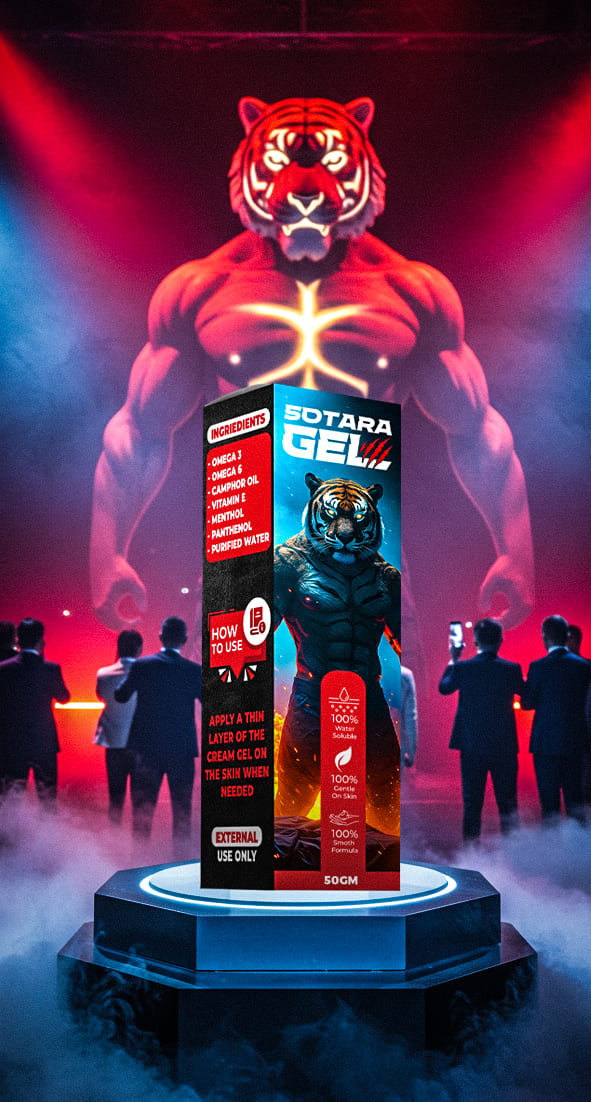
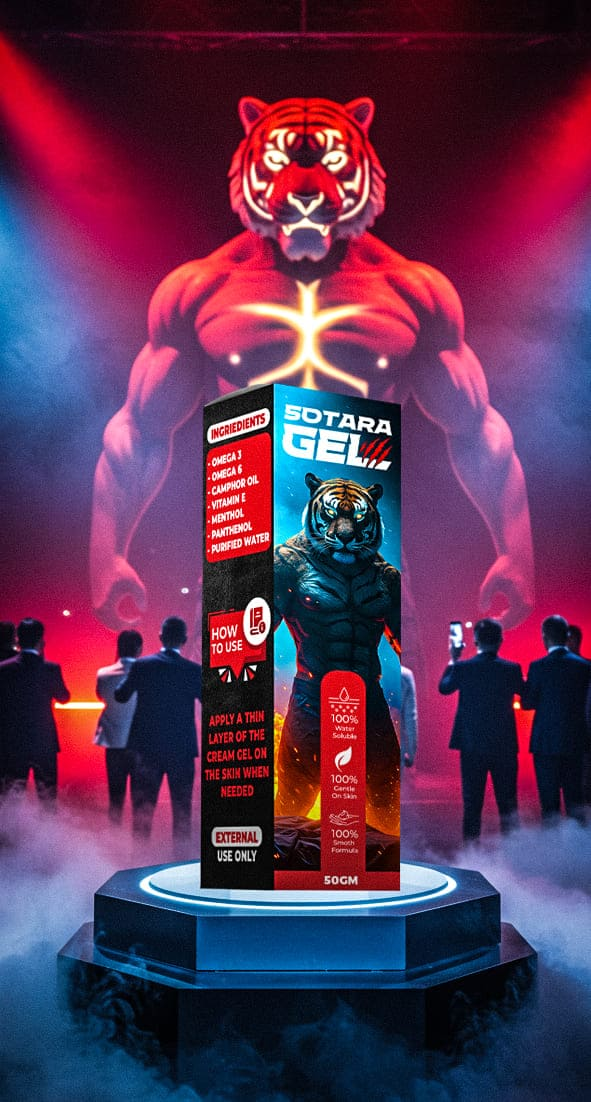
Add files via upload

diff --git a/css/style.css b/css/style.css
@@ -97,6 +97,11 @@ input, button{
   }
 }
 
+@media (min-width:992px){
+  .btn_img{
+    width: 240px;
+  }
+}
 
 
 
@@ -146,7 +151,7 @@ input, button{
   .hero ul li.white{
     border-radius: 20px;
     margin: 0 auto 10px;
-    width: 80%;
+    width: 76%;
     font-size: 4vw;
   }
   .hero ul li.last{
@@ -170,10 +175,14 @@ input, button{
 .hero{
   width: 50%;
 }
+
+.hero .top_img{
+  margin-top: -4vw;
+}
   .hero ul li.orange ,
   .hero ul li.white{
-  font-size: 24px;
-      width: 90%;
+  font-size: 22px;
+      width: 82%;
 }
 .hero ul li.last{
   font-size: 23px;
@@ -214,12 +223,18 @@ input, button{
 /* ==========  Responsive Design  ========== */
 /* ==========  sm ≥ 576px  ========== */
 @media (min-width:576px){
-
+.results .img-result{
+  width: 90%;
+  margin: 0 auto 20px;
+}
 }
 
 /* ==========  md ≥ 768px  ========== */
 @media (min-width:768px){
-
+.results .img-result{
+  width: 80%;
+  margin: 0 auto 20px;
+}
 }
 
 /* ==========  lg ≥ 992px  ========== */
@@ -230,7 +245,9 @@ input, button{
   flex-direction: column;
   justify-content: center;
 }
-
+.results .img-result{
+  margin-bottom: 20px;
+  }
 
 }
 
@@ -270,7 +287,7 @@ input, button{
 }
 .doctor ul li{
   width: 48.5%;
-  font-size: 3.8vw;
+  font-size: 3.6vw;
   line-height: 1.5;
   margin-bottom: 10px;
   text-align: center;
@@ -292,7 +309,11 @@ input, button{
 /* ==========  Responsive Design  ========== */
 /* ==========  sm ≥ 576px  ========== */
 @media (min-width:576px){
-
+ .doctor ul li{
+    margin-bottom: 20px;
+    width: 47%;
+    font-size: 3.5vw;
+  }
 
 }
 
@@ -303,12 +324,26 @@ input, button{
   }
   .doctor{
     width: 50%;
-    background: #FF6711;
-
   }
   .doctor .text{
     top: 40vw;
   }
+  .doctor ul li{
+    font-size: 24px;
+    width: 70%;
+  }
+  .doctor ul{
+    flex-direction: column;
+    justify-content: center;
+    align-items: center;
+  }
+    .doctor ul li.red:nth-child(3n){
+       background: linear-gradient(#4EA7F9, #487EFA);
+    }
+     .doctor ul li.blue:nth-child(2n){
+      background: linear-gradient(#E32315, #95130A);
+    }
+
 
 
 }
@@ -363,7 +398,7 @@ input, button{
 }
 
 .how_work ul li{
-  font-size: 4.5vw;
+  font-size: 4vw;
   line-height: 1.4;
   color: #fff;
   margin-bottom: 10px;
@@ -403,12 +438,21 @@ input, button{
   .how_work{
     width: 50%;
   }
-  .img_how_work{
-    height: 100%;
-    width: 100%;
-    object-fit: cover;
-  }
 
+  .how_work .top_how_work h3{
+    font-size: 40px;
+    margin-bottom: 10px;
+  }
+  .how_work .top_how_work h5{
+    font-size: 27px;
+  }
+  .how_work ul li{
+    font-size: 20px;
+    margin-bottom: 15px;
+  }
+.how_work .imp p{
+  font-size: 18px;
+}
 }
 
 /* ==========  xl ≥ 1200px  ========== */
@@ -616,6 +660,9 @@ input, button{
 
 /* ==========  lg ≥ 992px  ========== */
 @media (min-width:992px){
+  .footer{
+        background: linear-gradient(#4EA7F9, #487EFA);
+  }
   .footer .boxs .box{
     gap: 20px;
   }
@@ -645,23 +692,23 @@ input, button{
 
 
 body.thanks_page_page {
-  background: url(../images/thanks.webp) center/cover;
+  background: url(../images/thanks.jpg) center/cover;
   min-height: 100vh;
 }
 
 .thanks_page {
   text-align: center;
-  padding-top: 25px;
+  padding-top: 200px;
 }
 
 .thanks_page h3 {
   font-size: 20px;
   color: #fcfefe;
-  background: linear-gradient( #F57F1C,#F43918);
+  background: linear-gradient(#EE2516,#A3160C);
   width: max-content;
   margin: 0 auto;
   border-radius: 12px;
-  padding: 3px 15px;
+  padding: 0px 11px 2px 60px;
 }
 
 .thanks_page p {
@@ -671,14 +718,25 @@ body.thanks_page_page {
   width: max-content;
   margin: 0 auto 15px;
   border-radius: 0px;
-  padding: 5px 13px;
+  padding: 1px 8px 3px 60px;
   }
 
-.thanks_page .text img {
-  width: 70px;
-  margin: 0 auto 10px;
-}
 
+
+.thanks_page .text{
+  position: relative;
+  width: max-content;
+  margin: 0 auto;
+  right: -10px;
+}
+.thanks_page .text .img_check{
+  position: absolute;
+  left: -32px;
+  top: 50%;
+  transform: translatey(-50%);
+  height: 102%;
+  width: auto;
+}
 /* ==========  Responsive Design  ========== */
 
 

diff --git a/index.html b/index.html
@@ -6,7 +6,7 @@
     <title>Sotara GEL</title>
 
     <!-- icon -->
-    <link rel="shortcut icon" href="images/icon.jpg" type="image/x-icon" />
+    <link rel="shortcut icon" href="images/icon.webp" type="image/x-icon" />
 
     <!-- File CSS -->
     <link rel="stylesheet" href="css/style.css" />
@@ -49,7 +49,7 @@
 
           <div class="btn_img">
             <a href="#submit-now"
-              ><img src="images/button1.png" alt="button"
+              ><img src="images/button1.webp" alt="button"
             /></a>
           </div>
         </div>
@@ -58,13 +58,14 @@
 
       <section class="results">
         
-        <img class="img-result" src="images/img-result.png" alt="">
+        <img class="img-result" src="images/img-result.webp" alt="">
+
         
 
 
         <div class="btn_img">
           <a href="#submit-now"
-            ><img src="images/button2.png" alt="button"
+            ><img src="images/button2.webp" alt="button"
           /></a>
         </div>
       </section>
@@ -72,7 +73,7 @@
 
     <div class="flex flex-reverse">
       <section class="doctor">
-        <img class="doctorimg" src="images/img-doc.png" alt="" />
+        <img class="doctorimg" src="images/img-doc.webp" alt="" />
 
         <div class="text">
 
@@ -87,7 +88,7 @@
 
           <div class="btn_img">
             <a href="#submit-now">
-              <img src="images/button1.png" alt="button"/>
+              <img src="images/button1.webp" alt="button"/>
             </a>
           </div>
 
@@ -104,7 +105,8 @@
           <h5>علـــــي تقـويــــة الانتصــــاب</h5>
         </div>
 
-        <img class="img_how_work" src="images/dd.jpg" alt="" />
+        <img class="img_how_work" src="images/dd.webp" alt="" />
+
 
 
         <ul>
@@ -124,7 +126,7 @@
 
         <div class="btn_img">
           <a href="#submit-now"
-            ><img src="images/button2.png" alt="button"
+            ><img src="images/button2.webp" alt="button"
           /></a>
         </div>
       </section>

diff --git a/thanksPage.html b/thanksPage.html
@@ -15,13 +15,13 @@
    
     <div class="thanks_page">
         <div class="text">
-            <img src="images/check.webp" alt="">
+            <img class="img_check" src="images/check.webp" alt="">
             <h3>تم تسجيل طلبكم للمنتج بنجاح</h3>
             <p>سيقوم احد ممثلي خدمة العملاء بالتواصل معك</p>
-            <div class="div_btn">
-              <a href="index.html" class="btn">الرجوع للموقع</a>
-            </div>
-        </div>
+          </div>
+          <div class="div_btn">
+            <a href="index.html" class="btn">الرجوع للموقع</a>
+          </div>
       
     </div>
 
